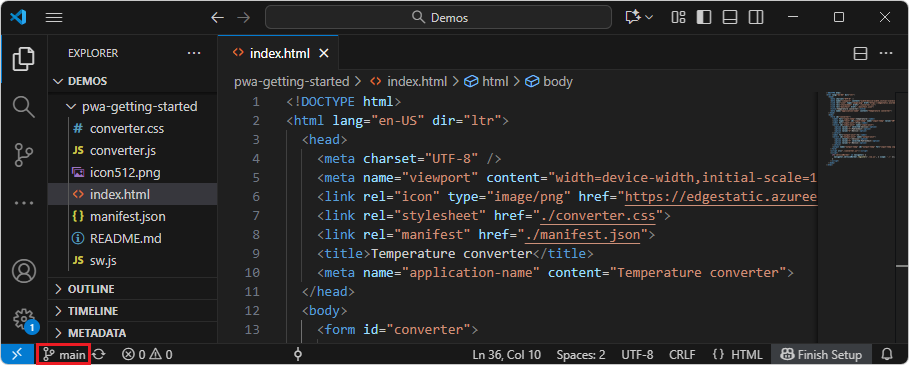
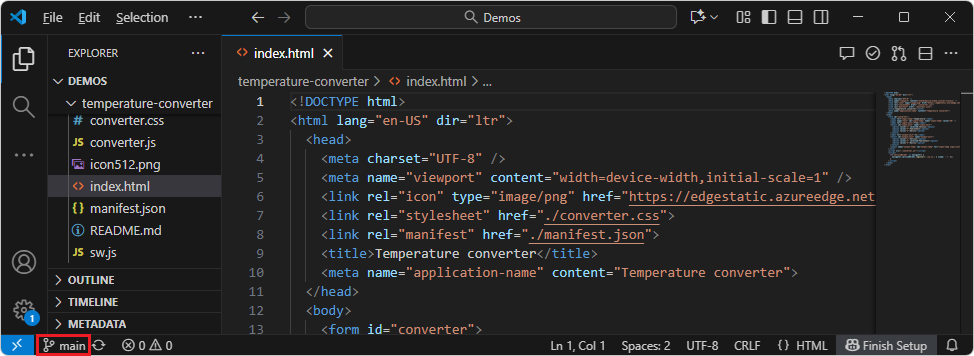
pngs show new dir name

diff --git a/microsoft-edge/progressive-web-apps/samples/temperature-converter.md b/microsoft-edge/progressive-web-apps/samples/temperature-converter.md
@@ -10,12 +10,6 @@ ms.date: 10/09/2025
 ---
 # Temperature converter sample
 
-<!-- todo: update pngs: renamed sample in Demos repo from /temperature-converter/ to /temperature-converter/ -->
-
-<!-- todo: figure out git add or git commit in test1 branch to not affect "main" branch, using VS Code > Terminal (not GH Desktop) -->
-
-<!-- todo: 3rd test pass of steps -->
-
 The Temperature converter sample is a Progressive Web App (PWA) that demonstrates the basics of how to build a PWA.  You can modify this sample to start creating your own PWA.
 
 This article covers how to obtain the sample, install it on Windows<!-- per https://github.com/MicrosoftDocs/edge-developer/issues/1974 -->, and run the sample.  This sample works with multiple operating systems, including Windows.  This article provides steps for Windows; other platforms have similar steps.
@@ -32,8 +26,6 @@ To examine the user interface of the app:
 1. In Microsoft Edge, go to the live [Temperature converter](https://microsoftedge.github.io/Demos/temperature-converter/) sample web app in a new window or tab (hosted at github.io):
 
    ![The PWA as a web app within the browser, served from github.io](./temperature-converter-images/preview-sample-at-github.png)
-
-   todo: update png to show new dir name
 
    The sample Progressive Web App (PWA) is initially shown in the browser, as a web app, but also has an **App available** (![App available icon](./temperature-converter-images/app-available-icon.png)) button (don't click it yet).
 
@@ -161,19 +153,17 @@ Fork the **MicrosoftEdge / Demos** repo, as follows:
 
    The following steps assume that the Demos repo hasn't been cloned yet.
 
-   **Clone (fork) the repo:**
+   **Fork the repo:**
 
 1. Open the [MicrosoftEdge / Demos](https://github.com/MicrosoftEdge/Demos) repo in a new window or tab.
 
-1. In the upper right, click the down-arrow on the **Fork** button, and then select **Create a new fork**.<!-- 1. Click the **Code** drop-down button, and then click the **Copy url to clipboard** button. -->
-
-   todo: update steps
+1. In the upper right, click the down-arrow on the **Fork** button, and then select **Create a new fork**.
 
    The URL is copied to the clipboard: `https://github.com/MicrosoftEdge/Demos.git`
 
 1. Open Visual Studio Code.
 
-1. In the **View** menu, select **Terminal**.<!-- For details, see [Terminal Basics](https://code.visualstudio.com/docs/terminal/basics) in the VS Code docs. -->
+1. In the **View** menu, select **Terminal**.
 
 1. Change to the directory where you want to clone the Demos repo:
 
@@ -406,7 +396,7 @@ Uninstall the sample as a local app on the device, by starting from the running 
 
    In Microsoft Edge, the **Apps** tab opens, displaying details about the **Temperature converter** app:
 
-   ![The Uninstall button in the Apps page of Microsoft Edge](./temperature-converter-images/uninstall-button.png)<!-- todo: redo w/o "app" in name -->
+   ![The Uninstall button in the Apps page of Microsoft Edge](./temperature-converter-images/uninstall-button.png)
 
 1. At the bottom, click the **Uninstall** button.
 
@@ -420,9 +410,11 @@ Uninstall the sample as a local app on the device, by starting from the running 
 
 Note: As an alternative, you could uninstall the sample PWA by starting from Microsoft Edge, as follows:
 
-1. In Microsoft Edge, select **Settings and more** (**...**) > **More tools** > **Apps** > **View apps**.<!-- need png showing UI, which varies depending on approach -->
+1. In Microsoft Edge, select **Settings and more** (**...**) > **More tools** > **Apps** > **View apps**.
 
-   The **Apps** dialog opens within Microsoft Edge.
+   The **Apps** dialog opens within Microsoft Edge:
+
+   ![Edge Settings > View apps listing the temperature converter](./temperature-converter-images/settings-view-apps.png)
 
 1. Right-click the **Temperature converter** card, and then click **Manage app**.
 
@@ -430,9 +422,6 @@ Note: As an alternative, you could uninstall the sample PWA by starting from Mic
 
 1. Scroll down, and then click the **Uninstall** button.
 
-<!--
-1. In the **Temperature converter app** section, select **Details**, and then click the **Uninstall** button.
--->
 
 Note: As an example of OS integration, you could uninstall the app via the Windows Start menu, as follows:
 
@@ -465,8 +454,6 @@ Create a working branch and switch to it, as follows:
 1. In the **Explorer** pane, open `\Demos\temperature-converter\index.html`.
 
    ![The main branch indicated in lower left of VS Code](./temperature-converter-images/main-branch-in-vs-code.png)
-
-   todo: update png to show new dir name
 
    In the lower left corner of Visual Studio Code, the **main** branch is indicated.
 
@@ -507,8 +494,6 @@ Create a working branch and switch to it, as follows:
    In the lower left corner of Visual Studio Code, the **test1** branch is indicated:
 
    ![The test1 branch indicated in lower left of VS Code](./temperature-converter-images/test1-branch-in-vs-code.png)
-
-   todo: update png to show new dir name
 
    **Modify the files**
 
@@ -556,13 +541,9 @@ Create a working branch and switch to it, as follows:
 
 1. Enter the command: `git commit`
 
-<!-- todo: test: switch to "main", expect VS Code to show name 4x "Temperature converter" not "TC" like in test1 branch -->
-
 
 <!-- ====================================================================== -->
 ## Step 13: View the modified web app in the browser
-
-<!-- todo: is server running, or not?  address both scenarios -->
 
 1. In Microsoft Edge, go to [http://localhost:8080](http://localhost:8080) (or an equivalent URL that was output in the terminal, from the `npx http-server` command).
 
@@ -613,7 +594,7 @@ Install the modified app from `localhost` in the browser onto the device, as fol
 
    ![The App installed" dialog in the standalone app window (modified)](./temperature-converter-images/app-installed-dialog-modified.png)
 
-1. Click the **Allow** button.  TODO: resume testing here
+1. Click the **Allow** button.
 
    A Windows **Apps** dialog asks "Would you like to pin TC to your taskbar?  This request is coming from TC."
 
@@ -654,8 +635,6 @@ Uninstall the modified local app as follows:
 
 <!-- ====================================================================== -->
 ## Step 17: Switch back to the "main" branch of the Demos repo
-
-<!-- todo: test: expect VS Code to show name 4x "Temperature converter" not "TC" like in test1 branch -->
 
 1. In the lower left corner of Visual Studio Code, look at the branch name.
 
